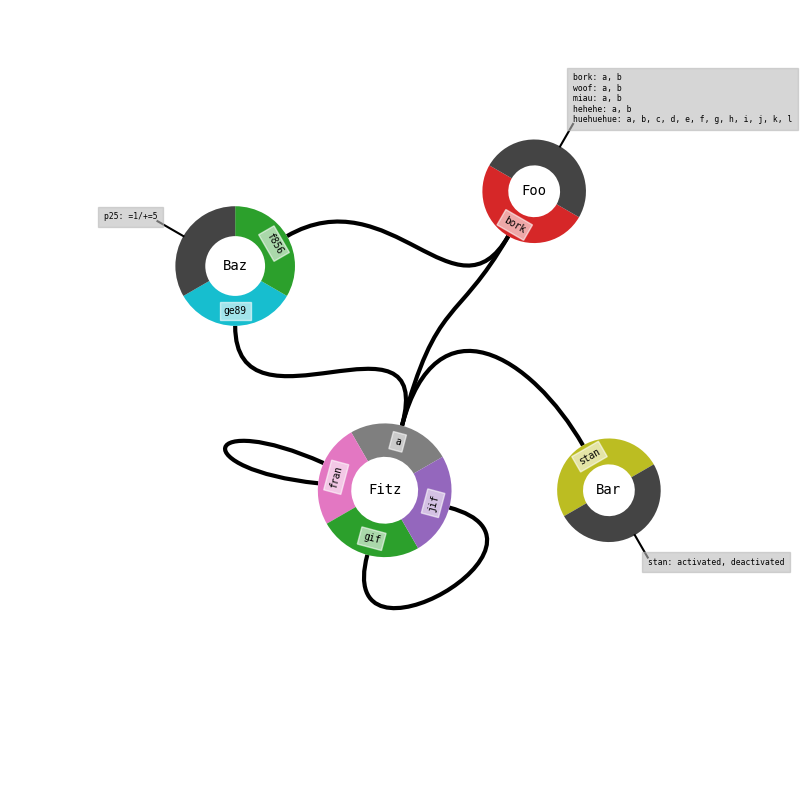
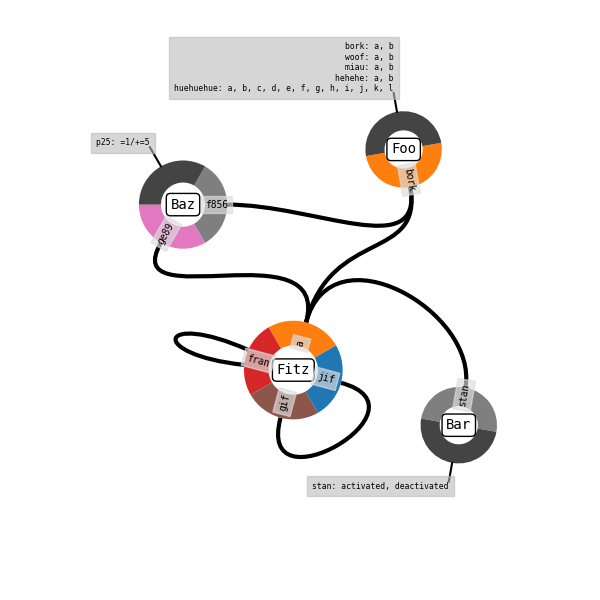
Wedge text along theta instead of orthogonal, text rotation in anchor mode, fancybox for agent name
* Writing the site names in effectively concentric rings around the agent name was difficult to read for large agents, even with agent scaling in size. Writing the names along the radius, following the wedge midline greatly aids in readability.
* Text rotation now in `anchor` mode, instead of default mode. Ensures proper rotation around the center point of the agent, rather than the final bounding box of the wedge's text.
* Tweaks to background color for text for better readability, using a fancybox for agent name with rounded corners
* Demo script can now use smaller figure

Changed region(s): [[0.12, 0.06, 1.0, 0.84], [0.54, 0.66, 0.63, 0.75]]

diff --git a/KaSaAn/core/KappaContactMap.py b/KaSaAn/core/KappaContactMap.py
@@ -227,8 +227,9 @@ def list_flagpole_wedges(agent_graphic_struct: dict) -> List[matplotlib.patches.
 
 def annotate_wedges_and_agents(agent_graphic_struct: dict, figure_axis):
     """Annotate an axis with data from the binding sites"""
-    agent_txt_kwrds = {'backgroundcolor': '#ffffffaa', 'fontfamily': 'monospace', 'fontsize': 'medium',
-                       'horizontalalignment': 'center', 'verticalalignment': 'center'}
+    agent_txt_kwrds = {'fontfamily': 'monospace', 'fontsize': 'medium',
+                       'horizontalalignment': 'center', 'verticalalignment': 'center',
+                       'bbox': {'boxstyle': 'round', 'fc': '#ffffffaa'}}
     wedge_txt_kwrds = {'backgroundcolor': '#ddddddaa', 'fontfamily': 'monospace', 'fontsize': 'x-small',
                        'verticalalignment': 'center', 'rotation_mode': 'anchor'}
     for agent_name in agent_graphic_struct.keys():

diff --git a/models/contact_map/contact_map_demo.py b/models/contact_map/contact_map_demo.py
@@ -4,17 +4,17 @@ import matplotlib.pyplot as plt
 from KaSaAn.core import KappaContactMap
 
 my_contact_map = KappaContactMap('inputs.ka')
-fig, ax = plt.subplots(figsize=(8, 8))
+fig, ax = plt.subplots(figsize=(6, 6))
 
 my_contact_map.move_agent_to('Fitz', 5, 5)
 my_contact_map.move_agent_to('Foo', 10, 15)
-my_contact_map.move_agent_to('Bar', 12.5, 5)
+my_contact_map.move_agent_to('Bar', 12.5, 2.5)
 my_contact_map.move_agent_to('Baz', 0, 12.5)
 
-my_contact_map.rotate_all_sites_of('Foo', 150)
-my_contact_map.rotate_all_sites_of('Baz', -150)
+my_contact_map.rotate_all_sites_of('Foo', 190)
+my_contact_map.rotate_all_sites_of('Baz', -180)
 my_contact_map.rotate_all_sites_of('Fitz', 30)
-my_contact_map.rotate_all_sites_of('Bar', 30)
+my_contact_map.rotate_all_sites_of('Bar', -10)
 
 my_contact_map.draw(ax, draw_state_flagpole=True)
 ax.axis('off')
